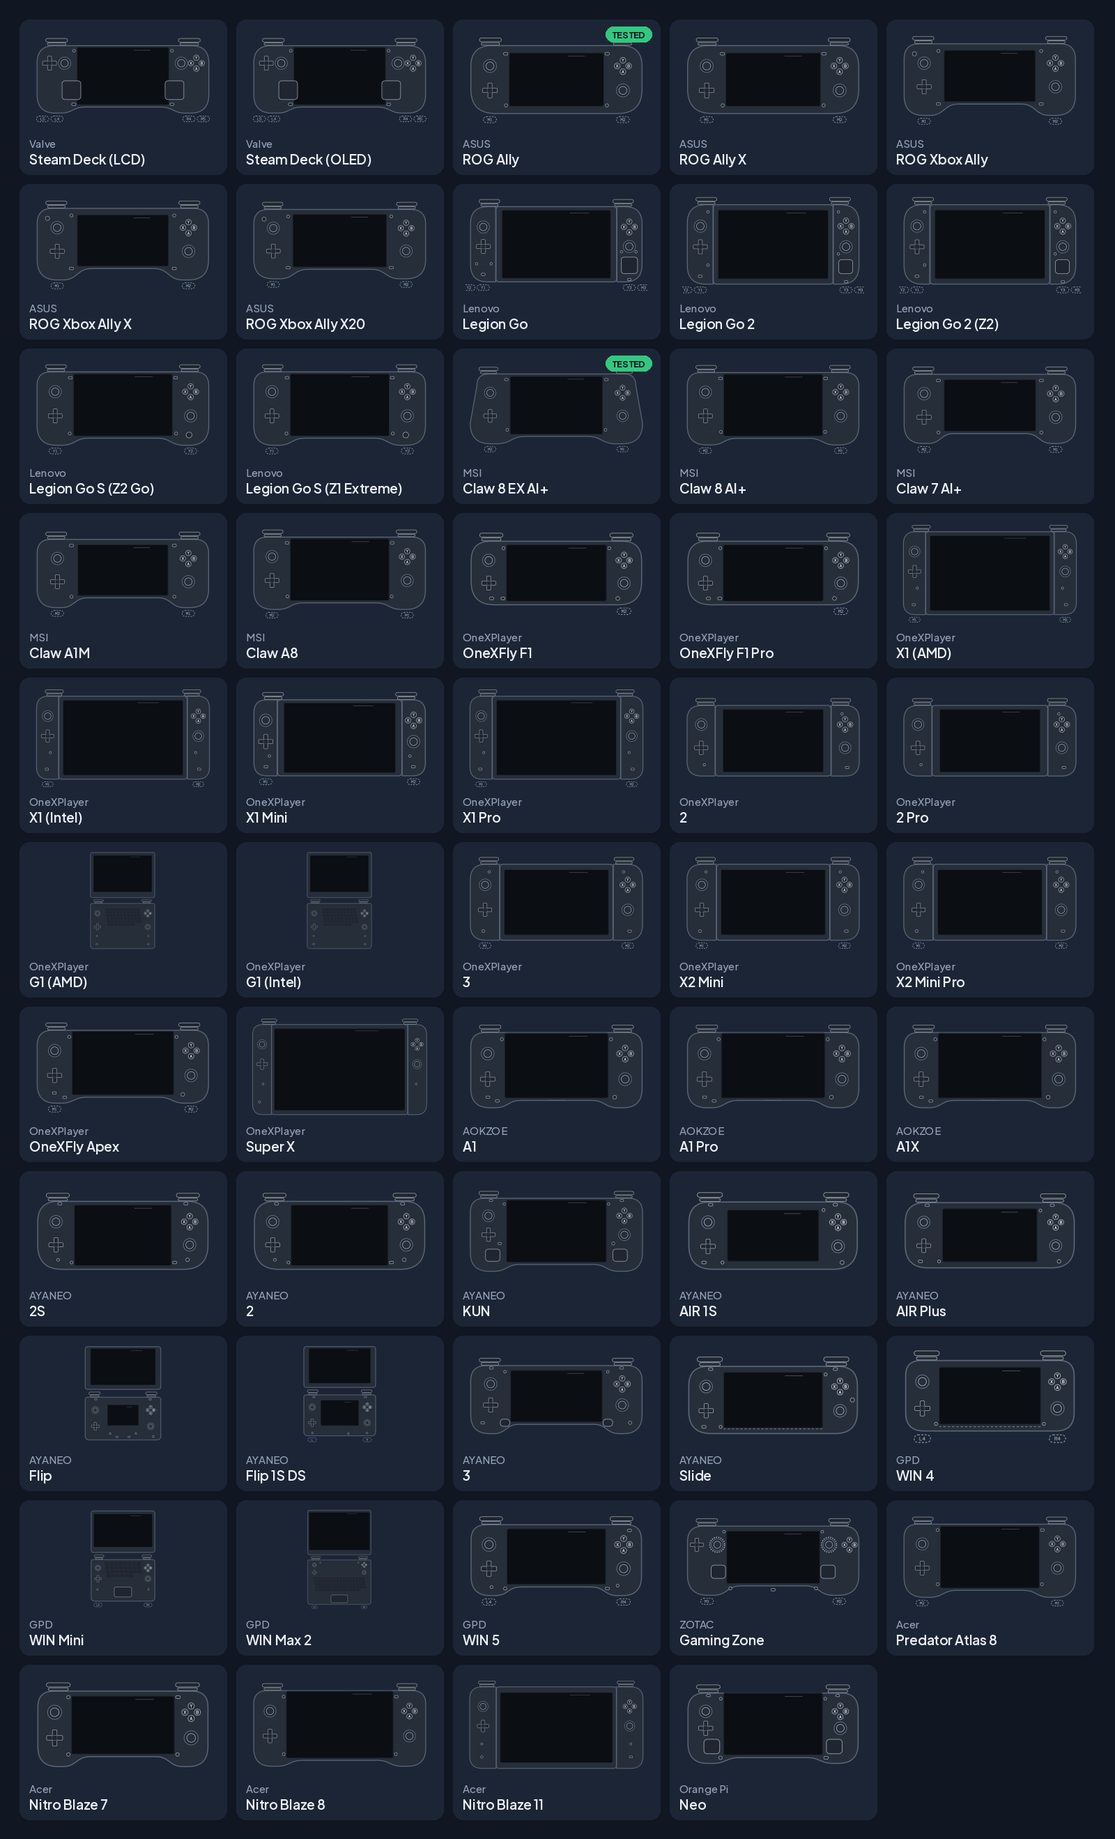
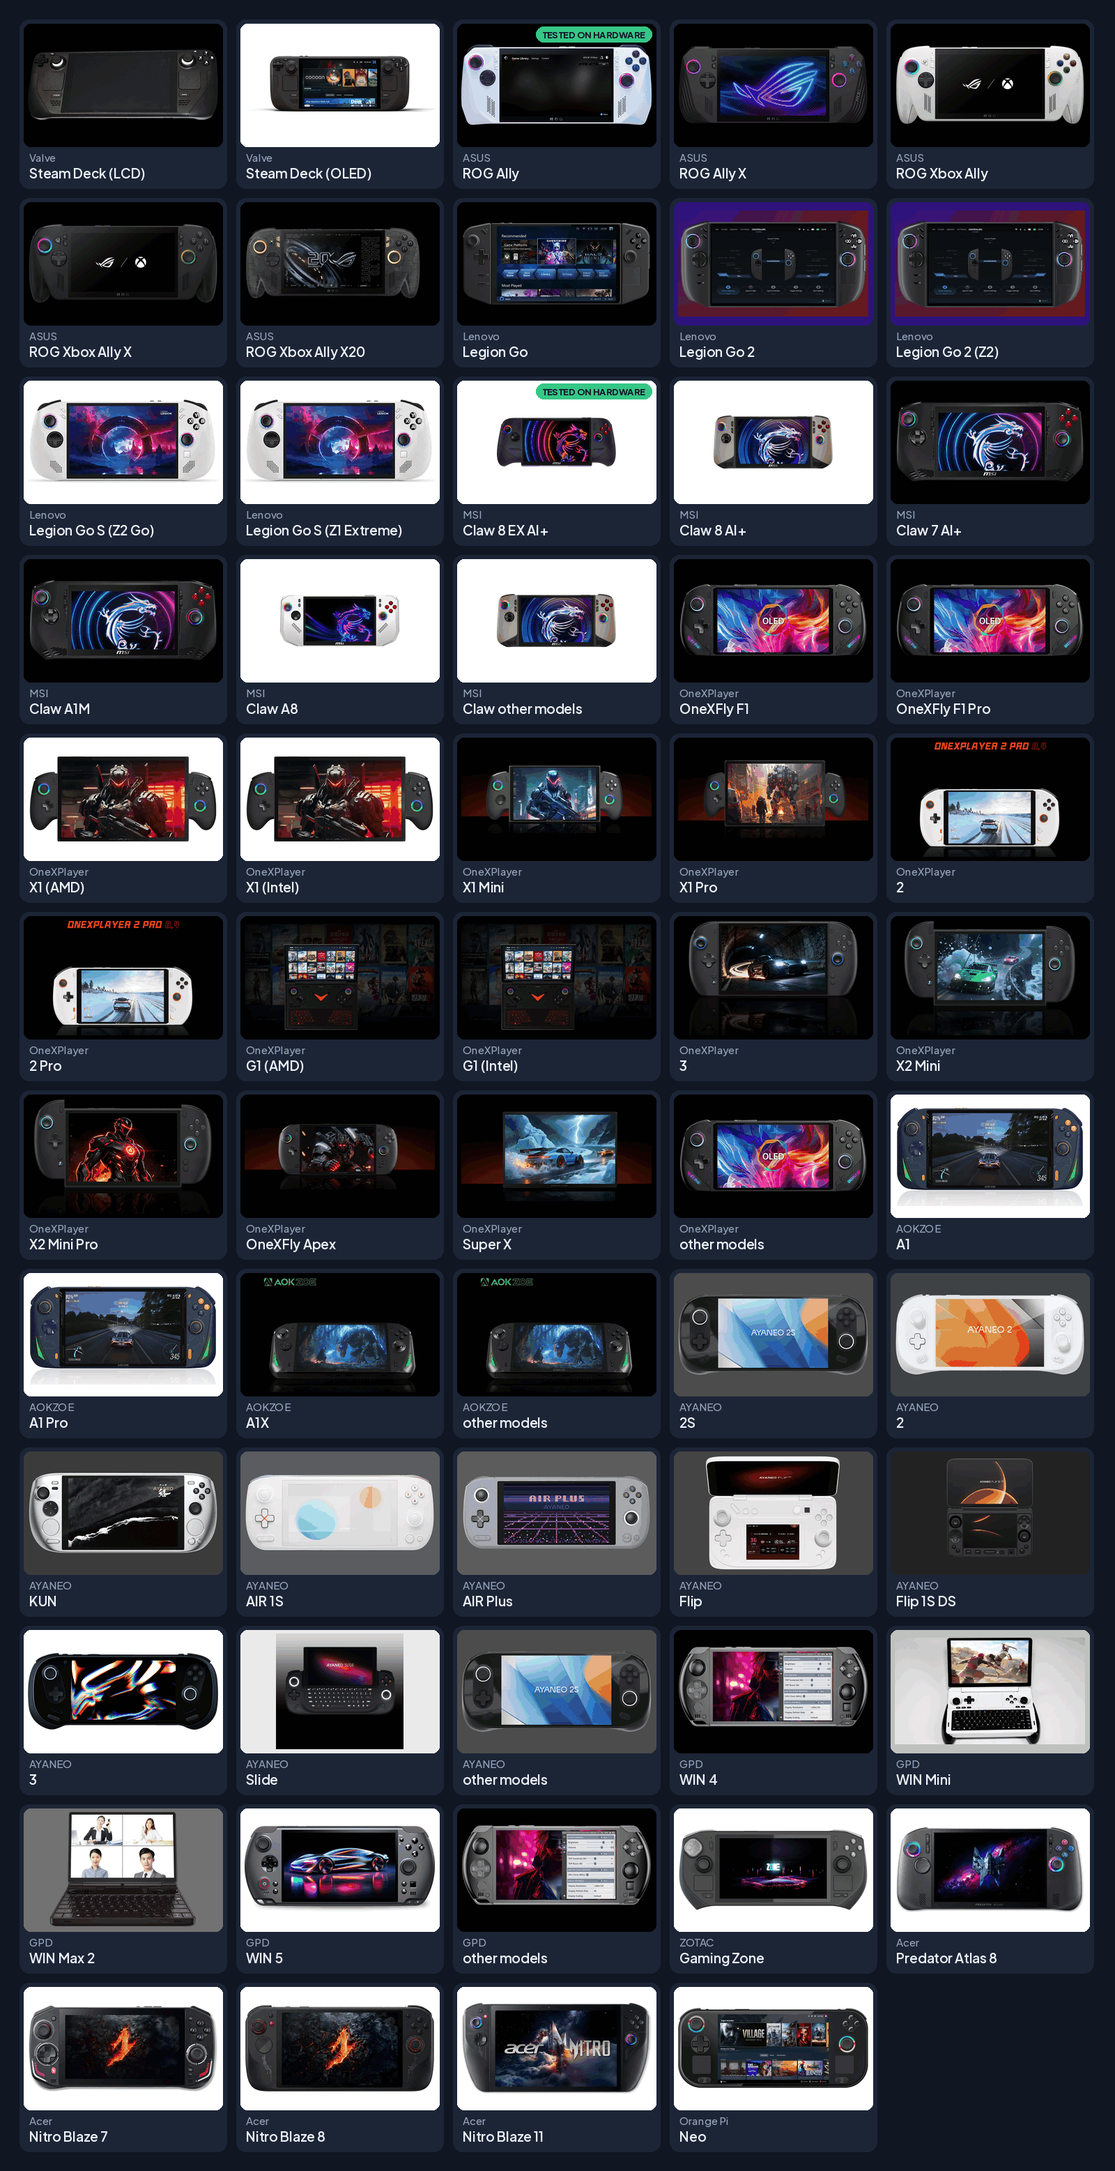
README device grid: real photos of all 59 rows; photo and low-latency wording
- docs/images/devices.png: every devices.json row's head-on photo (bundled
  Blaze 8, Commons Steam Deck LCD, maker images; drawings only as fallback),
  "Tested on hardware" on the Claw 8 EX and ROG Ally RC71L, 256-colour PNG.
- CREDITS.md, docs/BRANDS.md, docs/DEVICES.md, device_photos.json, makers.py:
  maker images are fetched by link in the app, one picture is bundled, and the
  README grid is the one committed composite; all removed on request.
- README: photo credit under the grid; low latency on by default and always
  on while frame generation runs, no longer listed in the quick menu row.

Claude-Session: https://claude.ai/code/session_019gY8Z1gs8noamioEcTumTn

diff --git a/tools/device_photos/readme_grid.py b/tools/device_photos/readme_grid.py
@@ -1,15 +1,19 @@
 #!/usr/bin/env python3
-"""The README's "Supported devices" picture: every model in app/data/devices.json
-(family / unknown-model rows left out), grouped by maker, each drawn with GameCove's
-own front-view drawing (app/assets/devices/art/<art>.svg, GPL-3.0-or-later) and
-labelled with its name. Models we've tested GameCove on carry a "Tested" pill.
+"""The README's "Supported handhelds" picture: every row in app/data/devices.json
+(family rows shown as "other models"), grouped by maker, each shown with its real
+head-on photo and labelled with its name. Models we've tested GameCove on carry a
+"Tested on hardware" pill.
 
-Maker product photos aren't used here on purpose: they're shown in the app by link
-only and never distributed with GameCove (CREDITS.md, "Maker images").
+Photos come from --photos DIR, named <device_id>.<png|jpg|jpeg|webp>: the bundled,
+free (Wikimedia Commons) and maker images listed in app/data/device_photos.json, as
+downloaded for the photo audit. Maker images are their makers' property, appear only
+in this README composite, and are removed on request (CREDITS.md, docs/BRANDS.md).
+A model without a photo falls back to GameCove's own drawing
+(app/assets/devices/art/<art>.svg).
 
-Needs rsvg-convert and Pillow.
+Needs rsvg-convert (fallback drawings only) and Pillow.
 
-    python3 -I tools/device_photos/readme_grid.py docs/images/devices.png
+    python3 -I tools/device_photos/readme_grid.py docs/images/devices.png --photos DIR
 """
 
 from __future__ import annotations
@@ -21,23 +25,54 @@ import sys
 import tempfile
 from pathlib import Path
 
-from PIL import Image, ImageDraw, ImageFont
+from PIL import Image, ImageChops, ImageDraw, ImageFont
 
 ROOT = Path(__file__).resolve().parents[2]
 DEVICES = ROOT / "app/data/devices.json"
 ART = ROOT / "app/assets/devices/art"
 FONTS = ROOT / "app/fonts"
+PHOTOS = json.loads((ROOT / "app/data/device_photos.json").read_text(encoding="utf-8"))
 
 WIDTH, COLS, PAD, GAP = 1600, 5, 28, 14
-ART_H, LABEL_H = 150, 52
+ART_H, LABEL_H = 170, 52
 BG, CARD, TEXT, QUIET, GOOD = (16, 22, 34), (28, 37, 54), (236, 241, 248), (150, 163, 184), (52, 199, 128)
 MAKERS = ["Valve", "ASUS", "Lenovo", "MSI", "OneXPlayer", "AOKZOE", "AYANEO", "GPD", "ZOTAC", "Acer", "Orange Pi"]
 
 
 def models(doc: dict) -> list[dict]:
-    rows = [r for r in doc["devices"] if r.get("tier") != "family"]
+    rows = list(doc["devices"])
     order = {m: i for i, m in enumerate(MAKERS)}
-    return sorted(rows, key=lambda r: order.get(r.get("maker", ""), len(MAKERS)))
+    return sorted(rows, key=lambda r: (order.get(r.get("maker", ""), len(MAKERS)), r.get("tier") == "family"))
+
+
+EXTS = (".png", ".jpg", ".jpeg", ".webp")
+
+
+def candidates(d: Path | None, dev: str) -> list[Path]:
+    """A bundled picture (app/assets/device_photos, wins in the app too), then --photos."""
+    out = []
+    bundled = PHOTOS.get(dev, {}).get("bundled", "") if isinstance(PHOTOS.get(dev), dict) else ""
+    if bundled:
+        out.append(ROOT / str(bundled).replace("res://", "app/"))
+    if d is not None:
+        out += [d / (dev + ext) for ext in EXTS]
+    return out
+
+
+def photo(d: Path | None, dev: str) -> Image.Image | None:
+    """The device's photo, cropped to the device (uniform border trimmed)."""
+    for f in candidates(d, dev):
+        if f.is_file():
+            im = Image.open(f).convert("RGBA")
+            bg = Image.new("RGBA", im.size, im.getpixel((2, 2)))
+            diff = ImageChops.difference(im, bg).convert("L").point(lambda v: 255 if v > 24 else 0)
+            box = diff.getbbox()
+            if box:
+                pad = 8
+                box = (max(0, box[0] - pad), max(0, box[1] - pad), min(im.width, box[2] + pad), min(im.height, box[3] + pad))
+                im = im.crop(box)
+            return im
+    return None
 
 
 def render(svg: Path, width: int, tmp: Path) -> Image.Image:
@@ -50,7 +85,10 @@ def render(svg: Path, width: int, tmp: Path) -> Image.Image:
 def main(argv: list[str] | None = None) -> int:
     ap = argparse.ArgumentParser()
     ap.add_argument("out")
+    ap.add_argument("--photos", default="", help="folder of <device_id>.<ext> photos")
     a = ap.parse_args(argv)
+    pdir = Path(a.photos) if a.photos else None
+    drawn = []
     doc = json.loads(DEVICES.read_text(encoding="utf-8"))
     rows = models(doc)
     cell_w = (WIDTH - 2 * PAD - (COLS - 1) * GAP) // COLS
@@ -68,27 +106,36 @@ def main(argv: list[str] | None = None) -> int:
             x = PAD + (i % COLS) * (cell_w + GAP)
             y = PAD + (i // COLS) * (cell_h + GAP)
             dr.rounded_rectangle([x, y, x + cell_w, y + cell_h], 14, fill=CARD)
-            svg = ART / f"{r.get('art') or 'generic'}.svg"
-            if not svg.is_file():
-                svg = ART / "generic.svg"
-            im = render(svg, cell_w - 36, tmp)
-            im.thumbnail((cell_w - 36, ART_H))
-            sheet.paste(im, (x + (cell_w - im.width) // 2, y + 12 + (ART_H - im.height) // 2), im)
+            im = photo(pdir, r["id"])
+            if im is not None:
+                fill = im.getpixel((0, 0))[:3]
+                dr.rounded_rectangle([x + 6, y + 6, x + cell_w - 6, y + ART_H + 12], 10, fill=fill)
+                im.thumbnail((cell_w - 24, ART_H - 4), Image.LANCZOS)
+            else:
+                drawn.append(r["id"])
+                svg = ART / f"{r.get('art') or 'generic'}.svg"
+                if not svg.is_file():
+                    svg = ART / "generic.svg"
+                im = render(svg, cell_w - 36, tmp)
+                im.thumbnail((cell_w - 36, ART_H))
+            sheet.paste(im, (x + (cell_w - im.width) // 2, y + 9 + (ART_H - im.height) // 2), im)
             maker = r.get("maker", "")
             name = r.get("name", r["id"])
             short = name[len(maker):].strip() if name.lower().startswith(maker.lower()) else name
+            short = short.replace("(unknown model)", "other models").strip()
             ty = y + ART_H + 18
             dr.text((x + 14, ty), maker, fill=QUIET, font=maker_font)
             dr.text((x + 14, ty + 20), short, fill=TEXT, font=name_font)
             if r.get("support") == "full":
-                label = "TESTED"
+                label = "TESTED ON HARDWARE"
                 tw = dr.textlength(label, font=pill_font)
                 px = x + cell_w - tw - 30
                 dr.rounded_rectangle([px, y + 10, px + tw + 18, y + 32], 11, fill=GOOD)
                 dr.text((px + 9, y + 13), label, fill=BG, font=pill_font)
     Path(a.out).parent.mkdir(parents=True, exist_ok=True)
-    sheet.save(a.out, optimize=True)
-    print(a.out, sheet.size, len(rows), "models")
+    # Photos make a big PNG: 256 colours with dithering keeps it README-sized.
+    sheet.quantize(256, method=Image.Quantize.MEDIANCUT, dither=Image.Dither.FLOYDSTEINBERG).save(a.out, optimize=True)
+    print(a.out, sheet.size, len(rows), "models;", "drawings for: " + (", ".join(drawn) or "none"))
     return 0
 
 

diff --git a/tools/device_photos/makers.py b/tools/device_photos/makers.py
@@ -2,8 +2,8 @@
 """Maker images: the makers' own official product images, used BY LINK ONLY.
 
 For a handheld with no freely licensed photo, app/data/device_photos.json may
-carry "maker_image": {url, page_url, maker, checked, view}. GameCove never copies
-these images: they are not in the repo and build.py never downloads them for
+carry "maker_image": {url, page_url, maker, checked, view}. The app never copies
+these images (only the README grid, readme_grid.py, composites them) and build.py never downloads them for
 the device-photos release. The app fetches that one image from the maker's
 site on the user's device and credits "Image: <Maker>".
 

diff --git a/README.md b/README.md
@@ -77,7 +77,7 @@ Press the Quick Access button (or Guide) and the quick menu slides in, in a game
 
 | Tab | What you control |
 | --- | --- |
-| **This game** | Performance overlay, frame limit, TDP, Auto TDP and its target, upscaling, frame generation, low latency, the screen upscaler |
+| **This game** | Performance overlay, frame limit, TDP, Auto TDP and its target, upscaling, frame generation, the screen upscaler |
 | **Power** | Power profile, TDP, boost, fan mode, battery saver, charge limit, CPU boost, energy preference |
 | **Display** | Brightness, refresh rate, frame limit, VRR, night light, colour vibrance, screen upscaler and sharpness, screen effects |
 | **Audio** | Volume, mute, output device, microphone mute and input |
@@ -105,7 +105,7 @@ Everything else is one press away in **Settings**, grouped the same way.
 - **Intel Arc:** XeSS on the XMX cores, FSR 4 on XMX, and XeSS frame generation (2x to 4x), through OptiScaler and the XeSS XMX driver.
 - **AMD:** FSR 4 on newer chips (using AMD's own files), FSR 3.1 everywhere, FSR frame generation.
 - **Any GPU:** Lossless Scaling frame generation through lsfg-vk (2x to 4x, with your own copy of Lossless Scaling).
-- **Low latency** is on by default (Anti-Lag on AMD, XeLL on Intel Arc), and on Intel Arc it kicks in by itself while frame generation runs.
+- **Low latency** (Anti-Lag on AMD, XeLL on Intel Arc) is on by default, and always on while frame generation runs.
 - Everything GameCove adds to a game folder is recorded and removed exactly on Undo. Folders set up by other tools are left alone.
 
 ### Profiles: per game and per power source
@@ -180,9 +180,11 @@ No analytics, no crash reports, no telemetry, no GameCove account. GameCove neve
 
 ## Supported handhelds
 
-GameCove recognises your exact model and sets itself up for it. In the app, About this device shows a real photo of your handheld; below are our own drawings of every model.
+GameCove recognises your exact model and sets itself up for it. Here's every model, and About this device in the app shows the same photo of yours.
 
 <p align="center"><img src="docs/images/devices.png" alt="Every handheld GameCove supports" width="100%"></p>
+
+<sub>Photos: the makers' official product images (their property, removed on request), except Steam Deck (LCD) by Liam Dawe/GamingOnLinux, <a href="https://commons.wikimedia.org/wiki/File:Steam_Deck_(front).png">CC BY-SA 4.0</a>.</sub>
 
 | Maker | Tested on hardware | Supported | Basic |
 | --- | --- | --- | --- |
@@ -260,4 +262,4 @@ GPL-3.0-or-later. See [LICENSE](LICENSE).
 
 A few parts carry their own licences: the Claw 8 EX gyro fix's HID-BPF program is GPL-2.0-only and its helper scripts GPL-2.0-or-later; the VRR fix's panel list derives from MIT-licensed code; the app is built on Godot Engine (MIT); the fonts are OFL-1.1. Every release carries these texts, and the app shows them under Settings > About > Credits and licenses. Details in [CREDITS.md](CREDITS.md) and [LICENSES/](LICENSES/).
 
-**The brand logos in `app/assets/brand/` are not GPL-licensed.** They're the makers' and stores' trademarks, shown only to identify a device, chip, store or launcher, and removed on request ([docs/BRANDS.md](docs/BRANDS.md), [app/assets/brand/LICENSE.md](app/assets/brand/LICENSE.md)). Maker product photos are never bundled; the app links to them on the maker's site. GameCove isn't affiliated with or endorsed by any of these companies.
+**The brand logos in `app/assets/brand/` are not GPL-licensed.** They're the makers' and stores' trademarks, shown only to identify a device, chip, store or launcher, and removed on request ([docs/BRANDS.md](docs/BRANDS.md), [app/assets/brand/LICENSE.md](app/assets/brand/LICENSE.md)). Device photos are the makers' property: most are fetched from the maker's own site when the app needs them, one (the Acer Nitro Blaze 8) is bundled, and the README's device grid shows them all. Any of them is removed on request. GameCove isn't affiliated with or endorsed by any of these companies.

diff --git a/docs/DEVICES.md b/docs/DEVICES.md
@@ -216,7 +216,7 @@ Every drawing is to scale, and all use the same scale: **1 mm of the real handhe
 
 Free photos exist for only some handhelds. For an exact model with none, `device_photos.json` carries `"maker_image": {url, page_url, maker, checked}`: the maker's own official front-view product image, read from the `<img>`/`og:image` of the maker's own product page (`page_url`) and checked on the `checked` date. Only the maker's own domains and image CDNs count (no retailers, no review sites); `_makers` in the same file lists, per maker, the accepted image URL prefixes and product-page domains, and the app, the build and the link check all enforce it.
 
-- **Shown by link, never distributed.** These images are the makers' property and are not covered by GameCove's licence. They are not in the repo, the build never downloads them, and they are not in the `device-photos` release. The app downloads that one image from the maker's site on the user's own device, only for the detected handheld, keeps the bytes unchanged in `user://device_photos/maker-<hash>.<png|jpg|webp>` (scaled only for display) and credits **"Image: <Maker>"**; A opens the maker's product page. The trademark notice in CREDITS.md applies.
+- **Shown by link, never distributed.** These images are the makers' property and are not covered by GameCove's licence. The build never downloads them and they are not in the app package or the `device-photos` release; the one exception is the README's device grid (`docs/images/devices.png`, `tools/device_photos/readme_grid.py`), a committed composite of every model's photo. Any of them is removed on request (docs/BRANDS.md). The app downloads that one image from the maker's site on the user's own device, only for the detected handheld, keeps the bytes unchanged in `user://device_photos/maker-<hash>.<png|jpg|webp>` (scaled only for display) and credits **"Image: <Maker>"**; A opens the maker's product page. The trademark notice in CREDITS.md applies.
 - **Order:** a bundled picture (below) first, then the free photo (Commons/Flickr), then the maker image, then the drawing. Owner's rule: every handheld GameCove recognises shows a real front photo of that exact model, so a free photo that is dim, cluttered or not a front view is replaced by the maker's image (the 2026-11-09 audits did this for the Legion Go, Claw A1M, OneXFly F1 / F1 Pro, Steam Deck OLED, ROG Ally and Ally X, the three Xbox Allys, OneXPlayer X1 Mini and 2 / 2 Pro, AOKZOE A1 / A1 Pro, AYANEO 3 and Slide); only the Steam Deck LCD still uses a free photo. The bundled list decides at once; the weekly manifest catching up doesn't matter.
 - **`view` (head-on rule):** every row with a picture of its own carries `"view": "front"`: a flat, head-on front view, camera straight at the screen, no angle, tilt, side or back view, no hands (an open clamshell is fine if shot straight on). Every row meets it today: `makers.py` still knows `"view": "best-available"` (with a `view_note` saying where we looked) for a row where no such image exists anywhere, but `test_build.py` (`BEST_AVAILABLE`, now empty, and `test_every_picture_is_front`) fails on any row that isn't `"front"`. The last one, the Acer Nitro Blaze 8 (Acer only publishes tilted renders), now ships a bundled front image (below). Rows that share a body may share a head-on image (`family_of`), e.g. the Claw 7 AI+ shows the Claw A1M's render because MSI's own Claw 7 AI+ renders are either badged or angled.
 - **Families:** an unknown-model row (`*-family`: GameCove knows the maker, not the model) has `"representative": "<id>"`, the maker's most common current model, and shows that model's picture with a caption under it, "MSI Claw (model not identified)" / "Pictured: MSI Claw 8 AI+" (`texts_photo.gd` `FAMILY_*`). Today: MSI Claw → Claw 8 AI+, OneXPlayer → OneXFly F1 Pro, AOKZOE → A1X, AYANEO → AYANEO 2S, GPD → WIN 4. The representative must be the same maker's exact model with a picture of its own (no chains); tests and `makers.py` enforce it.

diff --git a/CREDITS.md b/CREDITS.md
@@ -113,9 +113,9 @@ Device data was taken as facts (DMI strings, wattages, capability names, which b
 | --- | --- | --- | --- |
 | Steam Deck (LCD) | [Steam Deck (front).png](https://commons.wikimedia.org/wiki/File:Steam_Deck_(front).png) | Liam Dawe/GamingOnLinux (PNG version by VulcanSphere) | [CC BY-SA 4.0](https://creativecommons.org/licenses/by-sa/4.0/) |
 
-### Maker images (shown by link, not distributed)
+### Maker images
 
-For handhelds with no free photo, or none that shows the device cleanly from the front, the device panel shows the maker's own official product image, credited "Image: <Maker>" (ASUS, Valve, Lenovo, MSI, ONEXPLAYER, AOKZOE, AYANEO, GPD, Acer, ZOTAC, Orange Pi). These images are the makers' property and are **not** distributed by GameCove: they are not in this repository, the app package or the `device-photos` release, and GPL-3.0 doesn't apply to them. The app only stores a link (`maker_image` in [`app/data/device_photos.json`](app/data/device_photos.json), with the maker's product page it came from) and downloads that one image from the maker's own site on the user's device, unchanged except for scaling on screen. It can be switched off ("Show maker photos", Settings > Device). A maker that wants its image removed can open an issue and we'll drop the link. Details: [docs/DEVICES.md](docs/DEVICES.md#maker-images-by-link-only).
+For handhelds with no free photo, or none that shows the device cleanly from the front, the device panel shows the maker's own official product image, credited "Image: <Maker>" (ASUS, Valve, Lenovo, MSI, ONEXPLAYER, AOKZOE, AYANEO, GPD, Acer, ZOTAC, Orange Pi). These images are the makers' property, and GPL-3.0 doesn't apply to them. The app only stores a link (`maker_image` in [`app/data/device_photos.json`](app/data/device_photos.json), with the maker's product page it came from) and downloads that one image from the maker's own site on the user's device, unchanged except for scaling on screen; they aren't in the app package or the `device-photos` release. Two exceptions: the Acer Nitro Blaze 8's picture is bundled in the app (`app/assets/device_photos/`, a flat front view made from Acer's official render), and the README's device grid (`docs/images/devices.png`, made by `tools/device_photos/readme_grid.py`) is one committed composite that shows every model's photo, maker images included. It can be switched off ("Show maker photos", Settings > Device). A maker that wants its image removed can open an issue and we'll drop it everywhere: the link, the bundled picture and its tile in the README grid. Details: [docs/DEVICES.md](docs/DEVICES.md#maker-images-by-link-only).
 
 ## Trademarks
 

diff --git a/docs/BRANDS.md b/docs/BRANDS.md
@@ -62,3 +62,9 @@ Any company that doesn't want its logo shown in GameCove can ask, and we remove 
 ```
 
 With that flag off, `brand.gd` returns `""` for that brand from every lookup: no bundled logo, no system icon, no notice. The name shows as plain text everywhere. In the same commit, delete the SVG from `app/assets/brand/`, clear `file`, update the CREDITS.md Trademarks table, and link the issue. Ship it in the next release.
+
+## Device photos (maker product images)
+
+Same rule as the logos. Most handhelds' photos are the makers' own official product images: the app fetches each one by link from the maker's site on the user's device (`maker_image` in [`app/data/device_photos.json`](../app/data/device_photos.json)), and "Show maker photos" in Settings > Device turns that off. The Acer Nitro Blaze 8's picture, made from Acer's official render, is bundled in the app (`app/assets/device_photos/`). The README's device grid (`docs/images/devices.png`, built by `tools/device_photos/readme_grid.py`) is the one committed composite that shows every model's photo, maker images included. These images stay their makers' property and aren't covered by the GPL.
+
+**Removal:** a maker that asks gets its images removed everywhere, through the same channels as a logo request: drop the `maker_image` link (or the bundled file and its `bundled` entry), then rebuild the README grid (`python3 -I tools/device_photos/readme_grid.py docs/images/devices.png --photos <cache>`; a model without a photo falls back to GameCove's own drawing) and ship both in the next release.
